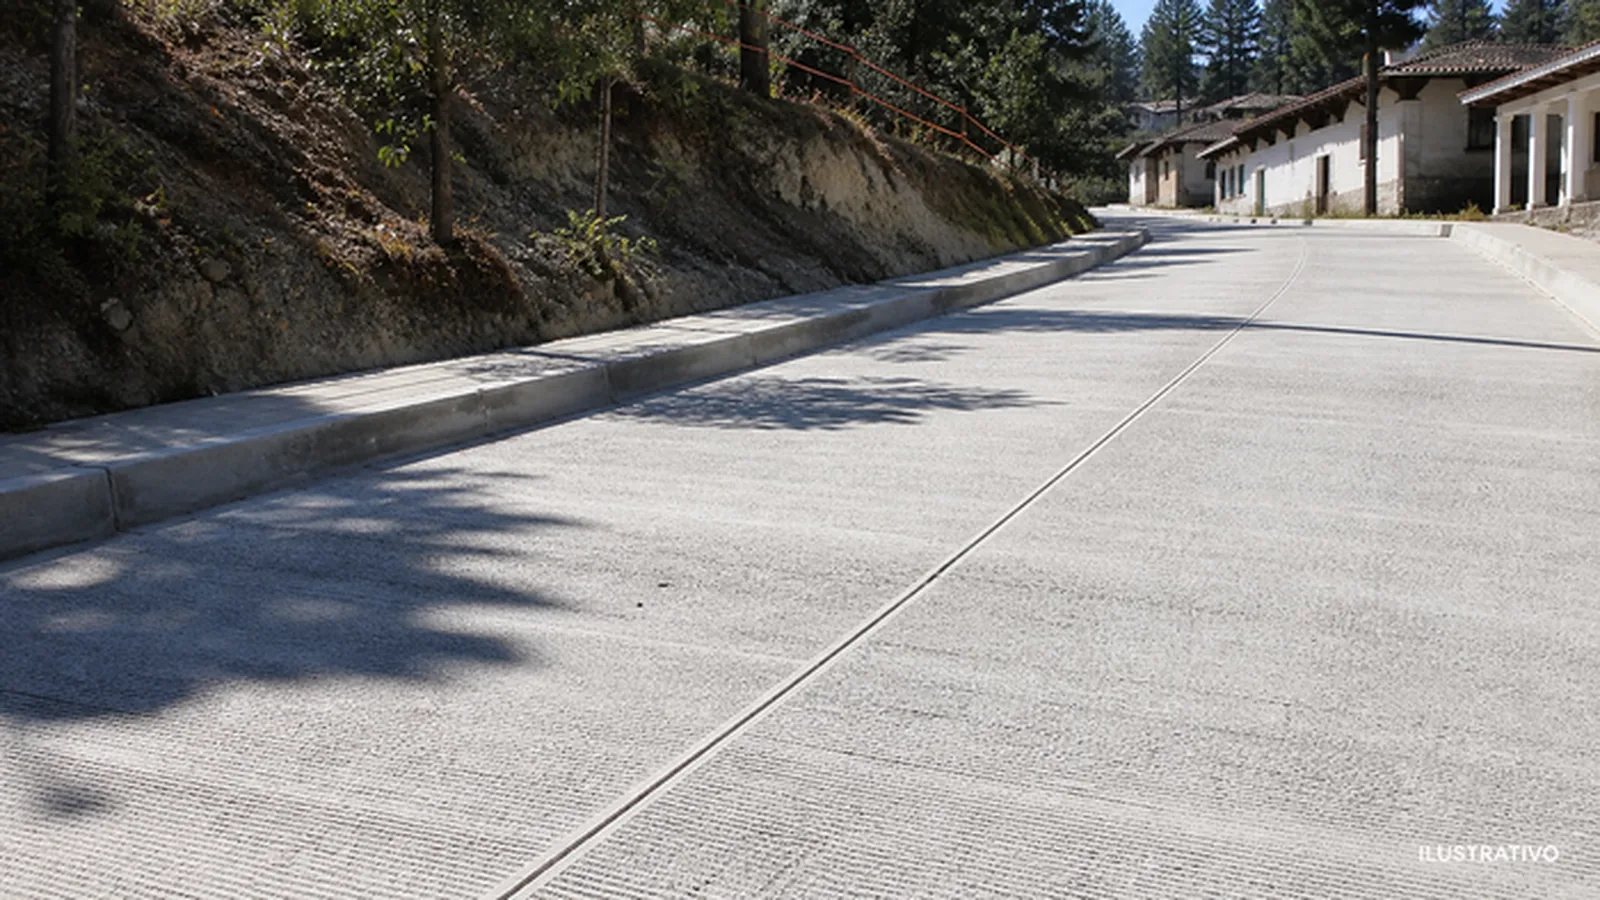
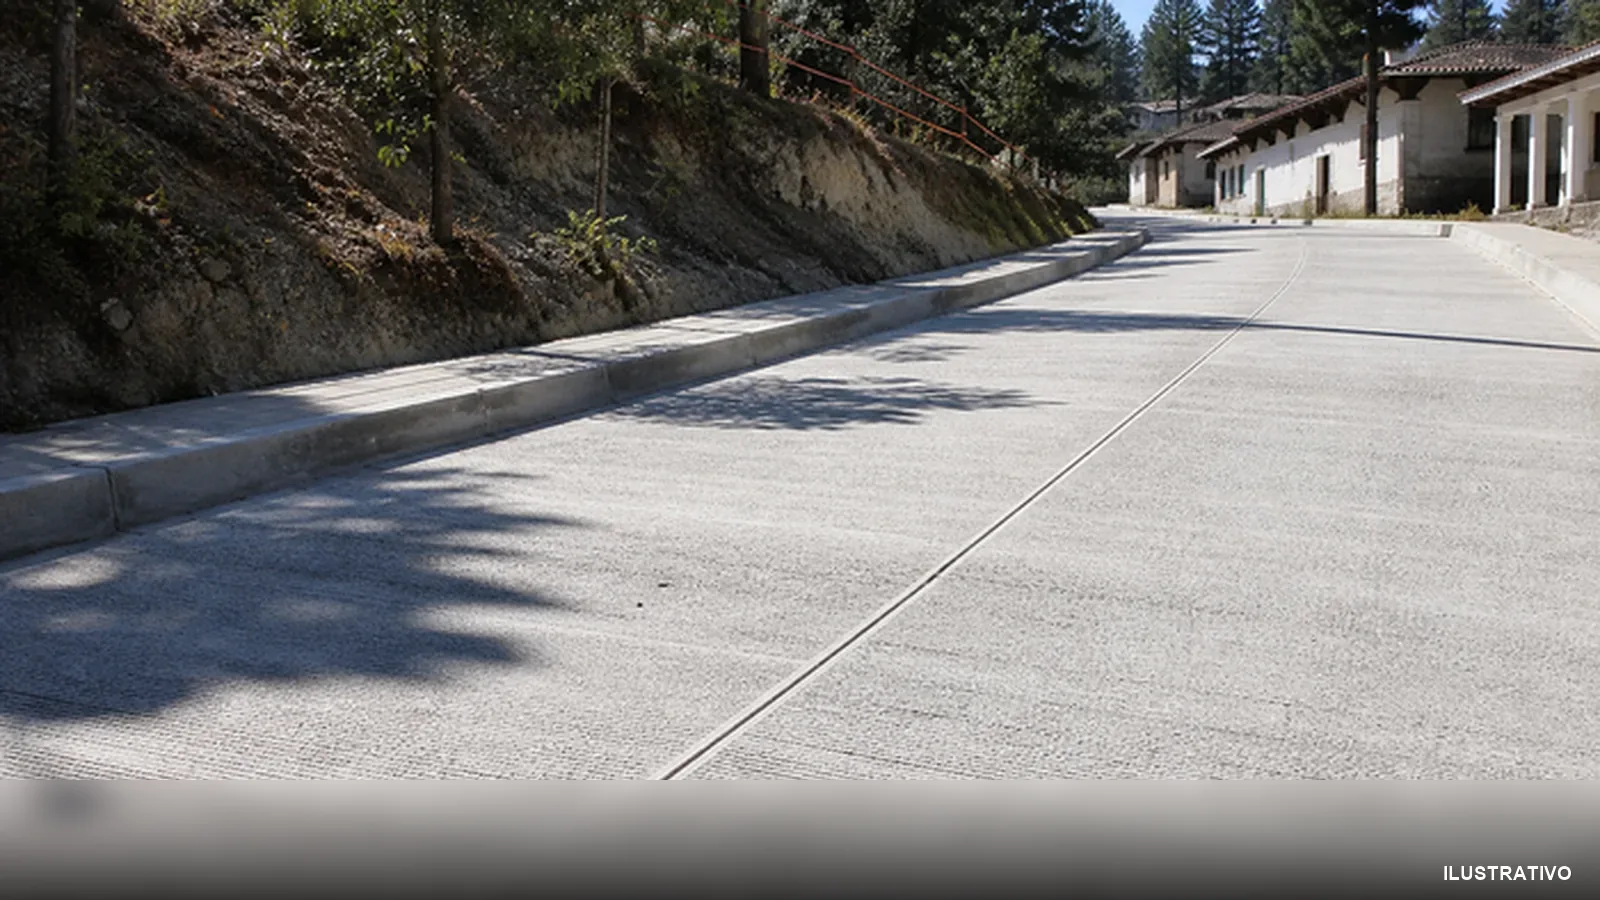
Put the ILUSTRATIVO legend on all thirty images
The generator was asked to write it and produced it on seventeen of the
thirty, in different positions, sizes and colours; thirteen came back with
nothing at all. That legend is not decoration — it is the only thing that
distinguishes a generated illustration from a photograph of a real public
work, so it cannot depend on a model that renders text unreliably.

marcar_ilustrativo.py composites it instead. The band spans the full width
rather than just the corner because it has a second job: covering whatever
the generator had already put down there. A dark gradient alone was not
enough — the old labels showed through it, leaving some images with the
word twice — so the strip is blurred before the gradient goes over it,
which turns any text underneath into an indistinct smudge and makes the
result read as a photo credit bar.

The legend is burned into the file rather than drawn in CSS so it travels
with the image if anyone downloads or reuses it elsewhere. An EXIF marker
keeps the script idempotent.

Changed region(s): [[0.0, 0.8711, 1.0, 1.0]]

diff --git a/scripts/marcar_ilustrativo.py b/scripts/marcar_ilustrativo.py
@@ -1,0 +1,124 @@
+"""
+marcar_ilustrativo.py
+=============================================================================
+Graba la leyenda «ILUSTRATIVO» en las imágenes de docs/img/obras/.
+
+Por qué no se le pide al generador
+----------------------------------
+Se le pidió, y de treinta imágenes trece salieron sin leyenda y las diecisiete
+restantes la traían en posiciones, tamaños y colores distintos. Los modelos de
+imagen no son fiables rotulando texto, y aquí la leyenda no es decorativa: es
+lo que distingue una ilustración generada de la fotografía de una obra real.
+Se compone después, que es determinista y se puede verificar.
+
+La banda inferior cumple dos funciones: sostiene la leyenda y tapa cualquier
+rótulo que el generador hubiera dejado en esa zona, sin importar dónde lo
+pusiera. Por eso ocupa todo el ancho en lugar de sólo la esquina.
+
+La marca se graba en el archivo, no en CSS, para que viaje con la imagen si
+alguien la descarga o la reutiliza fuera del sitio.
+
+Uso
+---
+    python scripts/marcar_ilustrativo.py            # marca las que falten
+    python scripts/marcar_ilustrativo.py --rehacer  # rehace todas
+
+Es idempotente: deja una marca EXIF y no vuelve a procesar una imagen ya
+marcada, salvo con --rehacer.
+"""
+import sys
+from pathlib import Path
+
+from PIL import Image, ImageDraw, ImageFilter, ImageFont
+
+RAIZ = Path(__file__).resolve().parent.parent
+DIRECTORIO = RAIZ / "docs" / "img" / "obras"
+
+LEYENDA = "ILUSTRATIVO"
+ALTO_BANDA = 120         # px sobre una imagen de 900 de alto
+MARGEN_DERECHO = 28
+CALIDAD = 82
+FIRMA = b"ILUSTRATIVO-marcado-v1"
+
+
+def fuente(tam):
+    """Una sans condensada si el sistema la tiene; si no, la de Pillow."""
+    for nombre in ("arialbd.ttf", "Arial_Bold.ttf", "DejaVuSans-Bold.ttf", "arial.ttf"):
+        try:
+            return ImageFont.truetype(nombre, tam)
+        except OSError:
+            continue
+    return ImageFont.load_default()
+
+
+def ya_marcada(ruta):
+    with Image.open(ruta) as im:
+        return FIRMA in (im.info.get("exif") or b"")
+
+
+def marcar(ruta):
+    with Image.open(ruta) as original:
+        im = original.convert("RGB")
+
+    ancho, alto = im.size
+
+    # Los rótulos que dejó el generador caen dentro de esta franja, a alturas
+    # distintas en cada imagen. Un degradado oscuro no basta para taparlos: se
+    # desenfoca la franja primero, que convierte cualquier texto en una mancha,
+    # y encima va el degradado. El resultado se lee como una barra de crédito
+    # fotográfico, no como un parche.
+    franja = im.crop((0, alto - ALTO_BANDA, ancho, alto))
+    franja = franja.filter(ImageFilter.GaussianBlur(radius=14))
+    im.paste(franja, (0, alto - ALTO_BANDA))
+
+    banda = Image.new("RGBA", (ancho, ALTO_BANDA), (0, 0, 0, 0))
+    pincel = ImageDraw.Draw(banda)
+
+    # Degradado de transparente a negro: sostiene la leyenda y apaga del todo
+    # lo que hubiera debajo.
+    for y in range(ALTO_BANDA):
+        alfa = int(190 * (y / ALTO_BANDA) ** 1.1)
+        pincel.line([(0, y), (ancho, y)], fill=(0, 0, 0, alfa))
+
+    tam = max(15, alto // 46)
+    f = fuente(tam)
+    caja = pincel.textbbox((0, 0), LEYENDA, font=f)
+    ancho_texto, alto_texto = caja[2] - caja[0], caja[3] - caja[1]
+    x = ancho - ancho_texto - MARGEN_DERECHO
+    y = ALTO_BANDA - alto_texto - 24
+
+    # Sombra corta para que se sostenga también sobre un cielo claro.
+    pincel.text((x + 1, y + 1), LEYENDA, font=f, fill=(0, 0, 0, 160))
+    pincel.text((x, y), LEYENDA, font=f, fill=(255, 255, 255, 235))
+
+    lienzo = im.convert("RGBA")
+    lienzo.alpha_composite(banda, (0, alto - ALTO_BANDA))
+    lienzo.convert("RGB").save(ruta, "WEBP", quality=CALIDAD, method=6, exif=FIRMA)
+    return ruta.stat().st_size
+
+
+def main():
+    rehacer = "--rehacer" in sys.argv
+    imagenes = sorted(DIRECTORIO.glob("*.webp"))
+    if not imagenes:
+        sys.exit(f"No hay imágenes en {DIRECTORIO}")
+
+    hechas = omitidas = 0
+    mayor = 0
+    for ruta in imagenes:
+        if not rehacer and ya_marcada(ruta):
+            omitidas += 1
+            continue
+        tam = marcar(ruta)
+        mayor = max(mayor, tam)
+        hechas += 1
+
+    print(f"marcadas {hechas}, ya marcadas {omitidas}, total {len(imagenes)}")
+    if mayor:
+        print(f"archivo mayor tras marcar: {mayor/1024:.0f} KB")
+    if mayor > 200 * 1024:
+        sys.exit("Alguna imagen supera los 200 KB; baja CALIDAD y repite.")
+
+
+if __name__ == "__main__":
+    main()

diff --git a/README.md b/README.md
@@ -14,6 +14,8 @@ It does **not** use Flask, Python, Render, Supabase, Cloudflare R2, or a live AP
 
 The six sample works include galleries of five **AI-generated illustrative images** each. They are not photographs of real public works; their role is to make the static interface and its image-gallery behaviour reproducible without publishing municipal evidence.
 
+Every one of them carries the legend `ILUSTRATIVO` burned into the file, not drawn in CSS, so it survives being downloaded or reused outside this site. The generator was asked for it and produced it on seventeen of thirty images, in varying positions, sizes and colours — image models are not reliable at rendering text, and here the legend is the only thing separating an illustration from evidence. [`scripts/marcar_ilustrativo.py`](scripts/marcar_ilustrativo.py) composites it deterministically instead, over a band that also covers whatever the generator had left there.
+
 ### Smart Map
 
 The landing page's **Mapa Ciudadano** button opens a copy of the *Mapa Inteligente* geospatial viewer, served from this same site at `/mapa/`:
